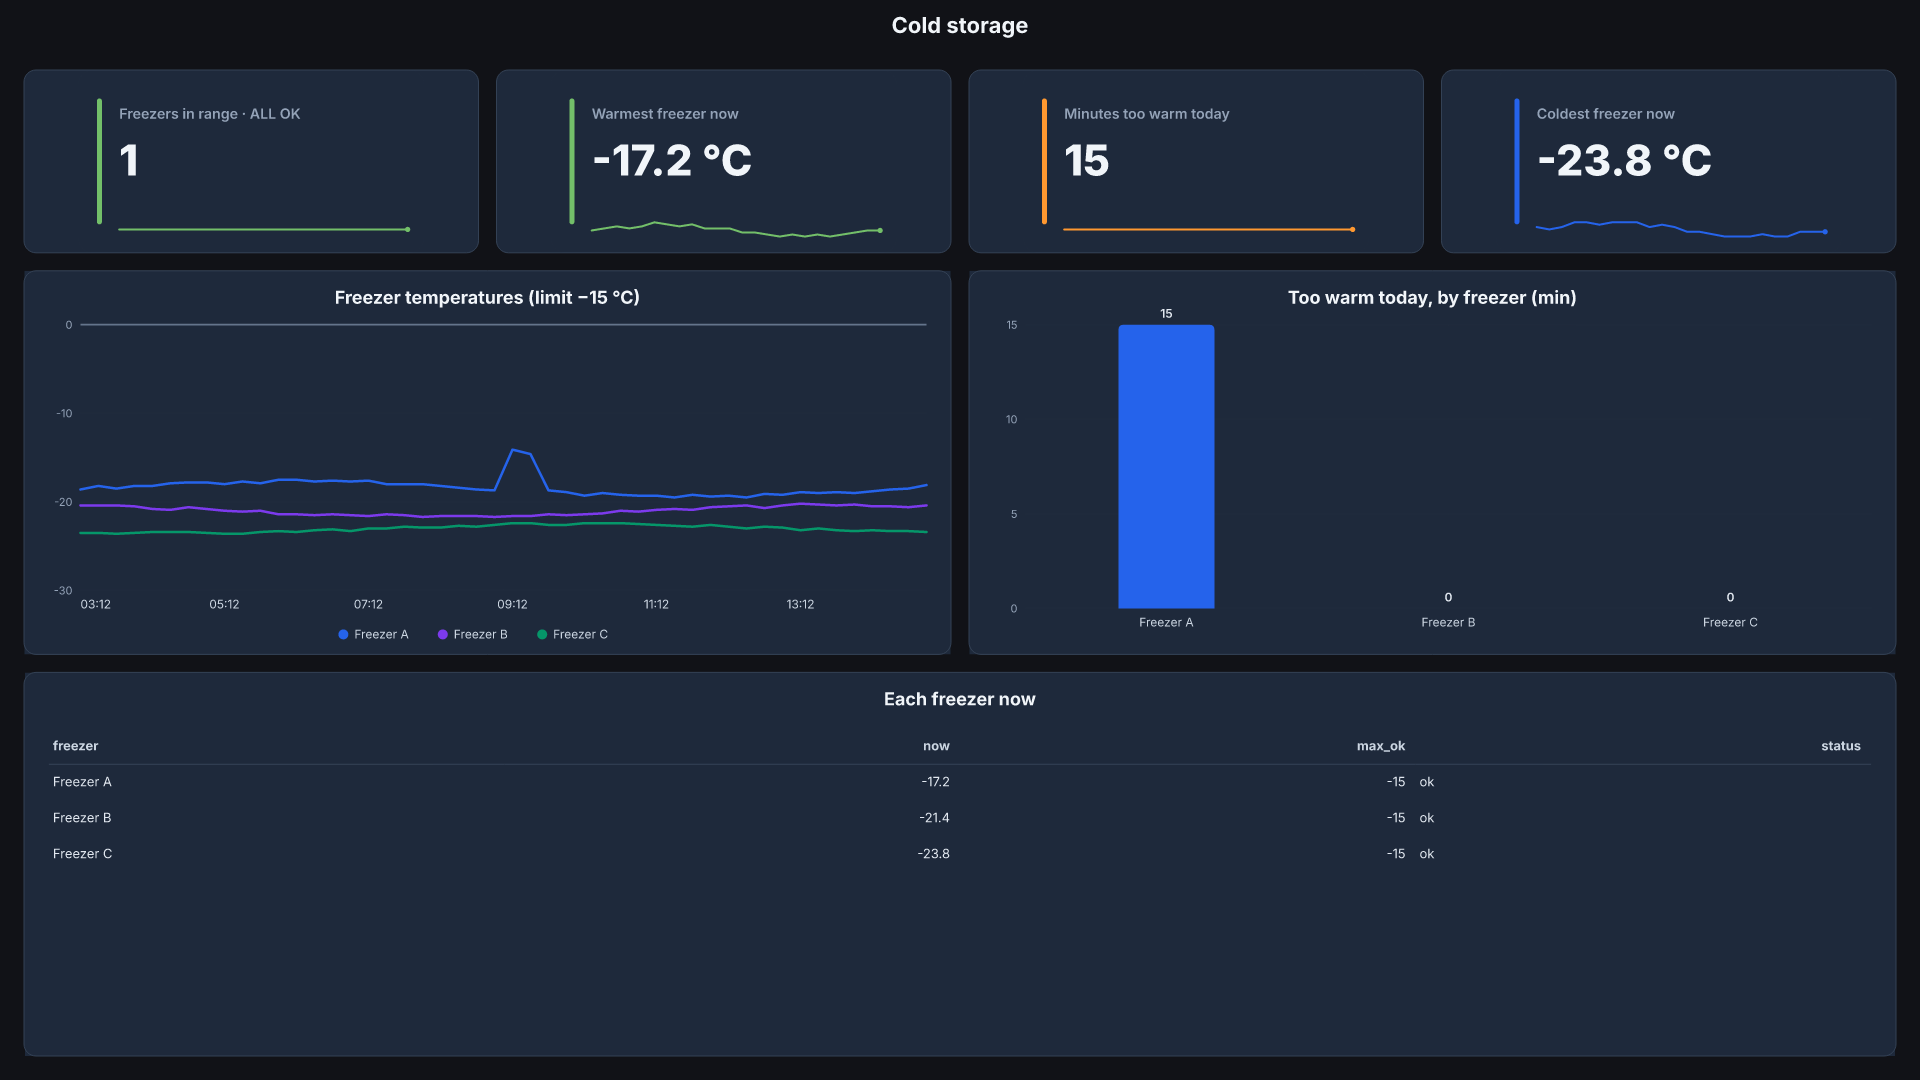
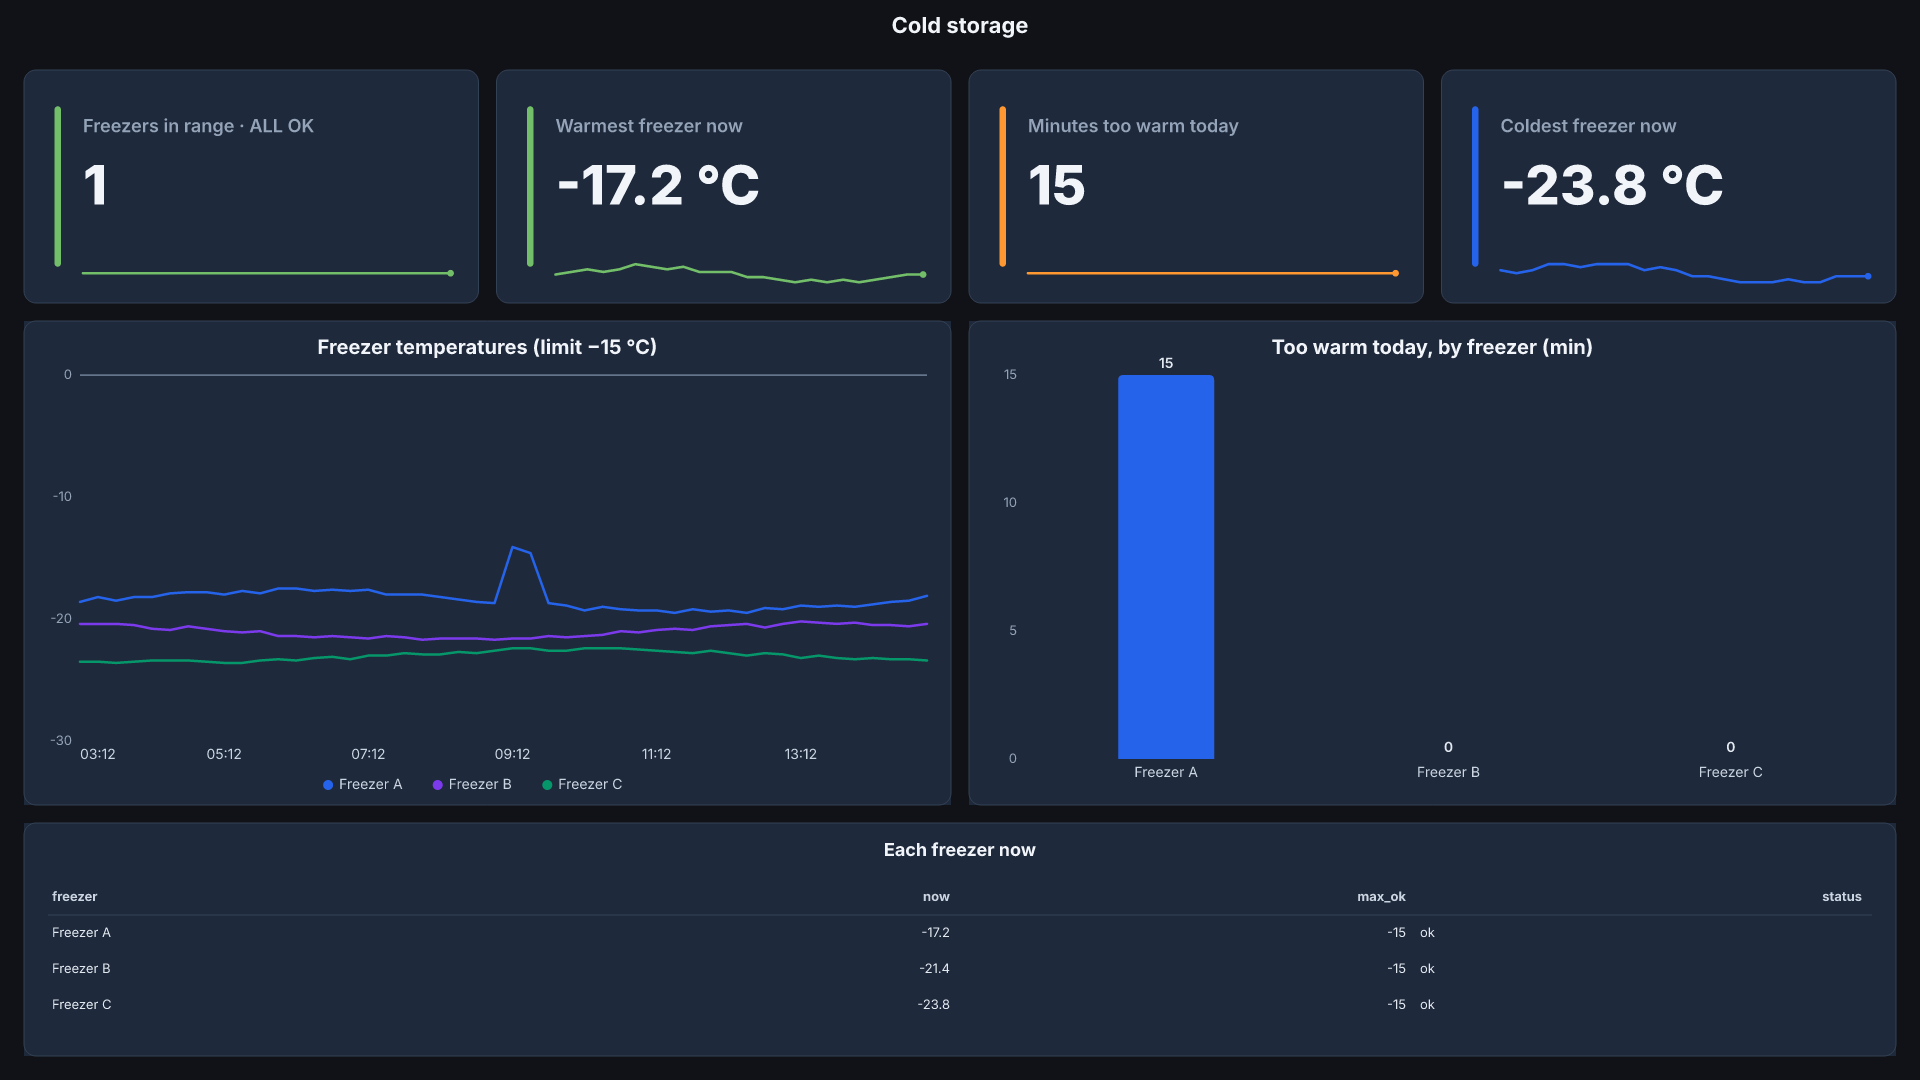
Ops help page (alerts, boards, everyday), linked from /ops; Cold storage + Energy gallery pictures redrawn

diff --git a/ops/help/index.html b/ops/help/index.html
@@ -1,0 +1,218 @@
+<!DOCTYPE html>
+<html lang="en">
+<head>
+<meta charset="utf-8">
+<meta name="viewport" content="width=device-width, initial-scale=1">
+<title>SlickFast Ops help: alerts and boards</title>
+<meta name="description" content="How to add and change alerts, put Grafana dashboards on a phone or TV, share and schedule boards, and keep SlickFast Ops up to date.">
+<link rel="canonical" href="https://slickfast.com/ops/help/">
+<link rel="icon" href="/favicon.ico" sizes="any">
+<link rel="icon" type="image/svg+xml" href="/favicon.svg">
+<link rel="preconnect" href="https://fonts.googleapis.com">
+<link rel="preconnect" href="https://fonts.gstatic.com" crossorigin>
+<link href="https://fonts.googleapis.com/css2?family=Inter:wght@400;600;700;800&display=swap" rel="stylesheet">
+<style>
+  :root{
+    --bg:#0d1522; --card:#16202f; --border:#243044;
+    --heading:#f1f5f9; --body:#c3cbd8; --muted:#8b9bb0;
+    --teal:#22d3ee; --green:#22c55e;
+  }
+  *{box-sizing:border-box;margin:0;padding:0}
+  body{background:var(--bg);color:var(--body);font-family:Inter,system-ui,-apple-system,"Segoe UI",Roboto,sans-serif;font-size:17px;line-height:1.6;-webkit-font-smoothing:antialiased}
+  a{color:var(--teal);text-decoration:none}
+  a:hover{text-decoration:underline}
+  h1,h2,h3{color:var(--heading);line-height:1.25}
+  .wrap{max-width:860px;margin:0 auto;padding:0 24px}
+  @media (max-width:560px){.wrap{padding:0 16px}}
+  header{position:sticky;top:0;z-index:10;background:rgba(13,21,34,.9);backdrop-filter:blur(8px);border-bottom:1px solid var(--border)}
+  .nav{display:flex;align-items:center;gap:16px;height:60px}
+  .logo{font-weight:800;font-size:19px;color:var(--heading)}
+  .logo .tick{color:var(--teal)}
+  .logo small{font-weight:600;color:var(--muted);font-size:15px;margin-left:6px}
+  .nav .links{display:flex;gap:16px;margin-left:auto;font-size:15px}
+  .nav .links a{color:var(--body)}
+  @media (max-width:560px){.nav .links .hide-sm{display:none}}
+  .hero{padding:48px 0 8px}
+  .hero h1{font-size:clamp(28px,4.5vw,40px);margin-bottom:12px}
+  .hero p{color:var(--muted)}
+  .toc{display:flex;flex-wrap:wrap;gap:8px 16px;margin:20px 0 8px;font-size:15px}
+  section{padding:32px 0 8px}
+  .kicker{color:var(--teal);font-size:13px;font-weight:700;letter-spacing:.12em;text-transform:uppercase;margin-bottom:8px}
+  h2{font-size:26px;margin-bottom:14px}
+  .card{background:var(--card);border:1px solid var(--border);border-radius:14px;padding:20px 22px;margin-bottom:14px}
+  .card h3{font-size:18px;margin-bottom:8px}
+  .card p{margin:6px 0}
+  ol,ul{padding-left:22px;margin:8px 0}
+  li{margin:5px 0}
+  b{color:var(--heading)}
+  code{font-family:ui-monospace,SFMono-Regular,Menlo,monospace;font-size:14px;background:var(--bg);border:1px solid var(--border);border-radius:6px;padding:1px 6px;word-break:break-word}
+  pre{font-family:ui-monospace,SFMono-Regular,Menlo,monospace;font-size:14px;background:var(--bg);border:1px solid var(--border);border-radius:8px;padding:12px 14px;margin:8px 0;white-space:pre-wrap;word-break:break-all}
+  .note{color:var(--muted);font-size:15px}
+  footer{border-top:1px solid var(--border);margin-top:40px;padding:32px 0 48px;font-size:14px;color:var(--muted)}
+</style>
+</head>
+<body>
+
+<header>
+  <div class="wrap nav">
+    <a class="logo" href="/ops/" style="text-decoration:none">Slick<span class="tick">Fast</span> <small>Ops</small></a>
+    <nav class="links">
+      <a href="#alerts">Alerts</a>
+      <a href="#boards">Boards</a>
+      <a href="#everyday" class="hide-sm">Everyday</a>
+    </nav>
+  </div>
+</header>
+
+<main class="wrap">
+  <div class="hero">
+    <h1>SlickFast Ops help</h1>
+    <p>How to add and change alerts, put boards on a phone or a TV, share and schedule them, and keep SlickFast up to date.
+      Two places do everything: <b>your own Grafana</b> (the address your team uses, not grafana.com) and <b>your setup page</b>
+      (the private link from your install, on your own server).</p>
+    <div class="toc">
+      <a href="#alerts-have">Your existing alerts</a><a href="#alerts-new">A new alert</a><a href="#alerts-change">Change or mute one</a>
+      <a href="#alerts-packs">Ready-made rules</a><a href="#alerts-where">Where alerts go</a>
+      <a href="#boards-yours">Your Grafana dashboards</a><a href="#boards-ready">Ready-made boards</a><a href="#boards-share">Share and TV</a>
+      <a href="#boards-schedule">On a schedule</a><a href="#boards-change">Change or remove</a><a href="#everyday">Update, check, remove</a>
+    </div>
+  </div>
+
+  <section id="alerts">
+    <div class="kicker">Alerts</div>
+    <h2>Alerts</h2>
+
+    <div class="card" id="alerts-have">
+      <h3>Your existing alerts</h3>
+      <p>Nothing to do. Once your Grafana sends its alerts through SlickFast (done at install), every alert you already have
+        arrives as a card: the value, the threshold and the graph of what fired, with <b>Open board</b> and <b>Silence</b> links.</p>
+    </div>
+
+    <div class="card" id="alerts-new">
+      <h3>Add a new alert</h3>
+      <p>In your Grafana:</p>
+      <ol>
+        <li><b>Alerting → Alert rules → + New alert rule</b>.</li>
+        <li><b>Name</b> it plainly. It becomes the card's title, e.g. "Checkout errors high".</li>
+        <li><b>Query:</b> pick the data source and the metric, the same way you build a dashboard panel.</li>
+        <li><b>Condition:</b> e.g. "is above 80". That number becomes the grey line on the card's graph.</li>
+        <li><b>Folder</b> and <b>evaluation group</b> (e.g. "Ops", every 1 minute). <b>Pending period:</b> how long it must stay bad
+          before alerting (e.g. 5 minutes, so short blips don't page you).</li>
+        <li>Optional, for a nicer card: a <b>summary</b> (one sentence), and annotations <code>unit</code> = <code>%</code> (or
+          <code>ms</code>, …) and <code>slickfast_board</code> = a board's name, which adds an <b>Open board</b> link.</li>
+        <li><b>Save.</b> It goes through SlickFast to your Slack and email by itself.</li>
+      </ol>
+    </div>
+
+    <div class="card" id="alerts-change">
+      <h3>Change an alert, or mute it for a while</h3>
+      <ul>
+        <li><b>Change it</b> (threshold, pending period, name): edit its rule in your Grafana, <b>Alerting → Alert rules</b>.</li>
+        <li><b>Mute it for a while:</b> the <b>Silence</b> link in its message, then pick how long.</li>
+      </ul>
+    </div>
+
+    <div class="card" id="alerts-packs">
+      <h3>Ready-made alert rules</h3>
+      <p>Setup page → box 5 → tick only what you run. Each pack says what it watches and what it needs:</p>
+      <ul>
+        <li><b>Servers</b>: server down, CPU busy, memory or disk almost full, disk fills within a day, overloaded. Needs node exporter.</li>
+        <li><b>Websites</b>: site down, slow, certificate expiring. Needs the blackbox exporter.</li>
+        <li><b>Postgres</b>: database down, connections nearly full, deadlocks, cache misses. Needs the postgres exporter.</li>
+        <li><b>Redis</b>: Redis down, evicting keys, refusing connections. Needs the redis exporter.</li>
+        <li><b>Apps</b>: errors rising, slow responses. Needs your app's request metrics.</li>
+      </ul>
+      <p><b>Make my alert rules → Download</b>, then your Grafana admin puts the file in Grafana's <code>provisioning/alerting/</code>
+        folder and restarts Grafana.</p>
+    </div>
+
+    <div class="card" id="alerts-where">
+      <h3>Change where alerts go</h3>
+      <ul>
+        <li><b>Another Slack channel or inbox:</b> setup page → box 2.</li>
+        <li><b>Keep your old destination too</b> (PagerDuty, an on-call email): in your Grafana, add SlickFast as an extra
+          integration on the contact point you already use (setup page, box 3, part c). Every alert then goes to both.</li>
+        <li><b>Only some alerts through SlickFast:</b> a child notification policy that matches a label (e.g.
+          <code>severity = critical</code>), contact point SlickFast, with <b>Continue matching</b> on.</li>
+      </ul>
+    </div>
+  </section>
+
+  <section id="boards">
+    <div class="kicker">Boards</div>
+    <h2>Boards</h2>
+
+    <div class="card" id="boards-yours">
+      <h3>Put your Grafana dashboards on a phone or a TV</h3>
+      <ul>
+        <li><b>See everything first:</b> setup page → box 4 → <b>Show everything</b>. Every dashboard you have, drawn as a
+          SlickFast board. Press <b>Go live</b> on the ones you want.</li>
+        <li><b>Or one at a time:</b> box 4 → <b>Load</b> → pick a dashboard → <b>Preview</b> → <b>Go live</b>.</li>
+      </ul>
+      <p>Each board gets its own link and updates by itself; the top line says how often. Nothing changes in your Grafana.</p>
+    </div>
+
+    <div class="card" id="boards-ready">
+      <h3>Ready-made boards</h3>
+      <p>Box 4 shows each template with a picture. <b>✓ Ready</b> means your Grafana already has what it reads;
+        <b>Needs: …</b> says what's missing (e.g. the postgres exporter). Pick a Ready one → <b>Use</b> → <b>Preview</b> → <b>Go live</b>.
+        Want a board of your own design? Email us. Custom boards are part of the service.</p>
+    </div>
+
+    <div class="card" id="boards-share">
+      <h3>Share a board, or put it on a TV</h3>
+      <ul>
+        <li><b>Share the whole link</b>, including the <code>?k=…</code> part. That key is what keeps the board private.</li>
+        <li><b>Phone / Screen</b> buttons at the top switch shape. For a wall TV, open the link in its browser and press
+          <b>Screen</b>. The page reloads itself, so the TV can be left alone.</li>
+        <li><b>Tap any tile</b> to see it big, over 1 h, 6 h, 24 h or 7 days.</li>
+        <li>The link works inside your network. Boards that open anywhere (outside your network) use your SlickFast key;
+          see <code>SECURITY.md</code> for exactly what that sends.</li>
+      </ul>
+    </div>
+
+    <div class="card" id="boards-schedule">
+      <h3>Send a board on a schedule</h3>
+      <p>Setup page → box 6 → pick a board (or the weekly report), the time and days, and who gets it, e.g. a client's
+        inbox → <b>Save</b>. <b>Send now</b> to check it.</p>
+    </div>
+
+    <div class="card" id="boards-change">
+      <h3>Rename, change or remove a board</h3>
+      <p>Setup page → box 4 → <b>Your boards</b>: change its title, phone or screen, how often it updates (every 1, 2, 5 or
+        15 minutes, or every hour), or <b>Remove</b> it (its link stops working).</p>
+    </div>
+  </section>
+
+  <section id="everyday">
+    <div class="kicker">Everyday</div>
+    <h2>Update, check, remove</h2>
+    <div class="card">
+      <h3>Update SlickFast</h3>
+      <p>Download the new files from your Polar page and copy them into the same <code>slickfast</code> folder on your server,
+        the same way as at install. Then, on the server as the Docker user, in that folder:</p>
+      <pre>bash install.sh</pre>
+      <p>Your settings, boards and history are kept, and there's nothing to redo in Grafana.</p>
+    </div>
+    <div class="card">
+      <h3>Check it's working</h3>
+      <p>In your Grafana: <b>Alerting → Contact points → SlickFast → Test</b>. A test card should arrive in your Slack and email
+        within seconds. Nothing? Email <a href="mailto:hello@slickfast.com">hello@slickfast.com</a>.</p>
+    </div>
+    <div class="card">
+      <h3>Remove it completely</h3>
+      <p><code>SECURITY.md</code> → "Remove it completely": three commands on the server, then delete the <code>slickfast</code>
+        service account and the SlickFast contact point in Grafana.</p>
+    </div>
+    <p class="note">Questions: <a href="mailto:hello@slickfast.com">hello@slickfast.com</a> · Security: <a href="mailto:security@slickfast.com">security@slickfast.com</a></p>
+  </section>
+</main>
+
+<footer>
+  <div class="wrap">
+    <p><a href="/ops/">SlickFast Ops</a> · <a href="/terms.html">Terms</a> · <a href="/privacy.html">Privacy</a></p>
+    <p>© 2026 SlickWorks LLC. SlickFast Ops works with Grafana. It is not made by, or affiliated with, Grafana Labs.</p>
+  </div>
+</footer>
+</body>
+</html>

diff --git a/ops/index.html b/ops/index.html
@@ -489,7 +489,7 @@ MCowBQYDK2VwAyEAY7Mu59PjGcxFoLKbVLOpppS9m7XdPX/KCXNTg47RF1A=
 
 <footer>
   <div class="wrap">
-    <p><a href="/">SlickFast</a> · <a href="/terms.html">Terms</a> · <a href="/privacy.html">Privacy</a> · <a href="mailto:hello@slickfast.com">hello@slickfast.com</a></p>
+    <p><a href="/">SlickFast</a> · <a href="/ops/help/">Help</a> · <a href="/terms.html">Terms</a> · <a href="/privacy.html">Privacy</a> · <a href="mailto:hello@slickfast.com">hello@slickfast.com</a></p>
     <p>© 2026 SlickWorks LLC. SlickFast Ops works with Grafana. It is not made by, or affiliated with, Grafana Labs.
       Grafana is a trademark of Raintank, Inc. (Grafana Labs).</p>
   </div>
